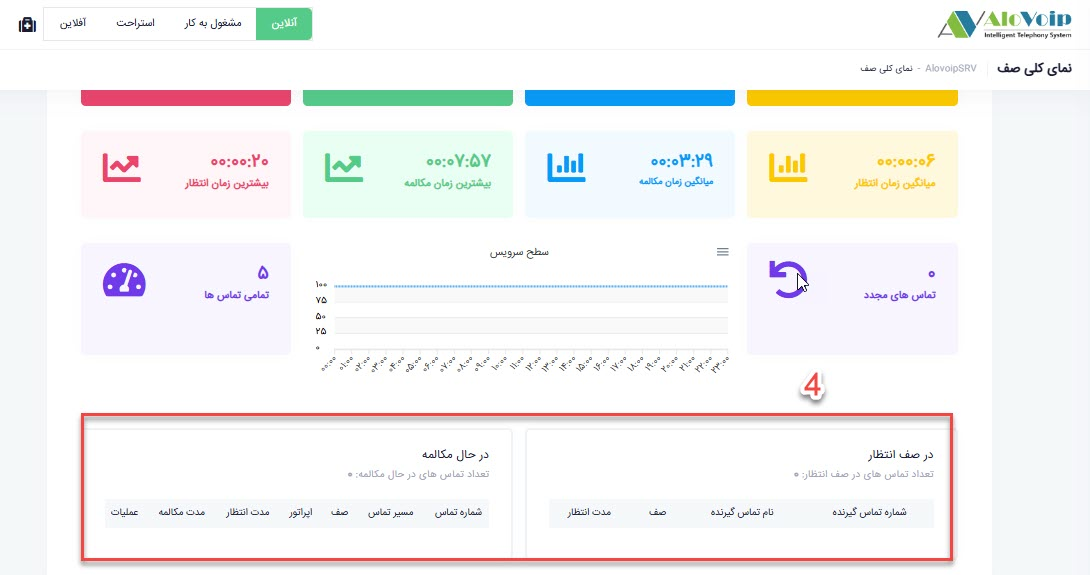
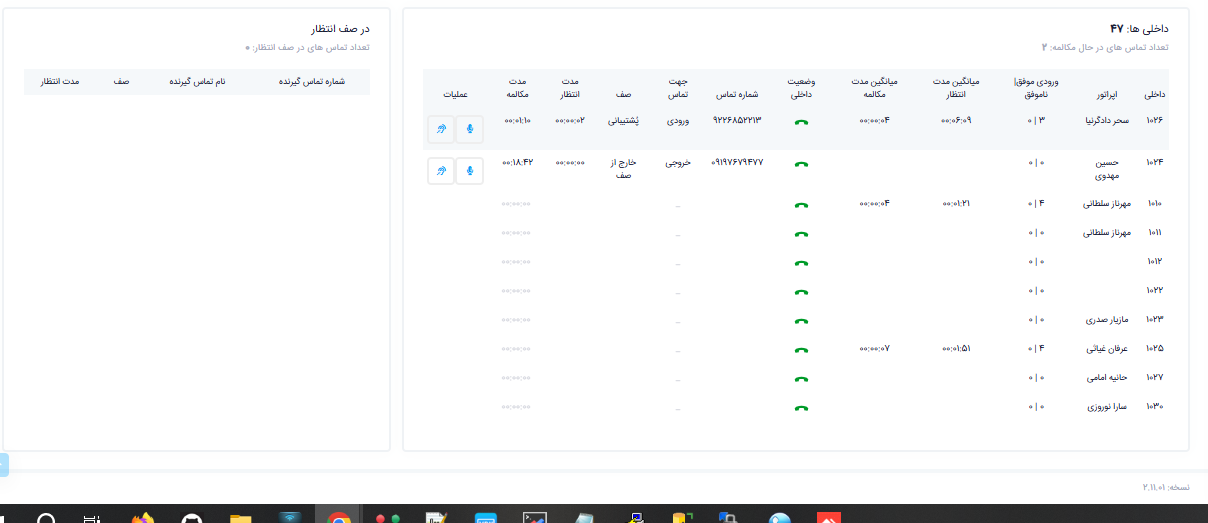
FIX Queue Overview

diff --git a/MonitoringAndReporting/QueueOverview.md b/MonitoringAndReporting/QueueOverview.md
@@ -49,11 +49,11 @@
 
 ![مسیر نمای کلی تماس ها ](./Image/namaykoli6.jpg)
 
-4.	در قسمت پایین صفحه،  آیتم **در صف انتظار و در حال مکالمه** را دارید. 
+4.	در قسمت پایین صفحه،  آیتم **در صف انتظار و داخلی ها** را دارید. 
 
 ![مسیر نمای کلی تماس ها ](./Image/namaykoli7.jpg)
-- **در صف انتظار**: در این قسمت مشاهده میکنید چه کسانی در صف انتخابی در حال انتظار وصل شدن به اپراتور هستند که اگر تعدادشان زیاد و یا زمان زیادی منتظر بودند بتوانید این تماس ها را مدیریت کنید. 
-- **در حال مکالمه**:  تعداد تماس های در حال مکالمه در هر صف را نشان میدهد.
+- **در صف انتظار**: در این قسمت مشاهده میکنید چه کسانی در صف انتخابی در حال انتظار وصل شدن به اپراتور هستند که اگر تعدادشان زیاد و یا زمان زیادی منتظر بودند بتوانید این تماس ها را مدیریت کنید.  <br>
+- **داخلی ها**: در این بخش، تعداد تماسهای هر داخلی، میانگین زمان مکالمه، مدتزمان انتظار و داخلیهای در حال مکالمه در هر صف نمایش داده میشود. همچنین با انتخاب هر صف بهصورت مجزا، امکان مشاهده جزئیات مربوط به همان صف فراهم است.  
 ##  اپراتورها{#Operators}
 در این قسمت امکان مشاهده اپراتورها  و تغییر وضعیت آنها در هر صف وجود دارد. برای این منظور کافی است مراحل زیر را طی کنید:
 
